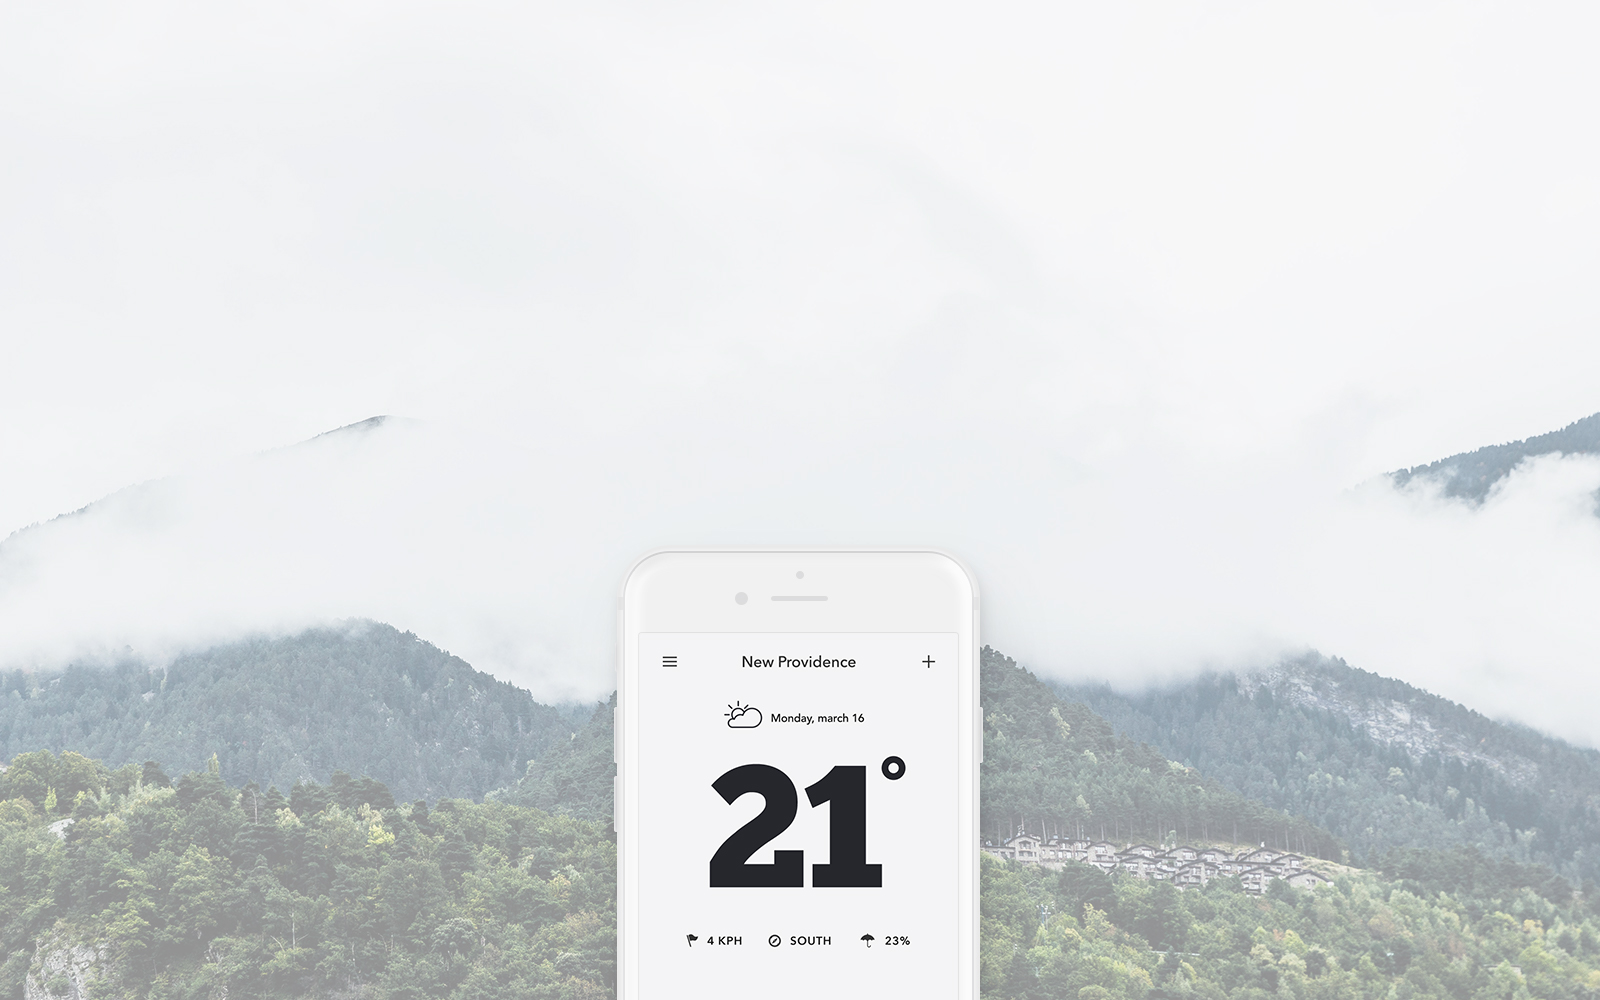
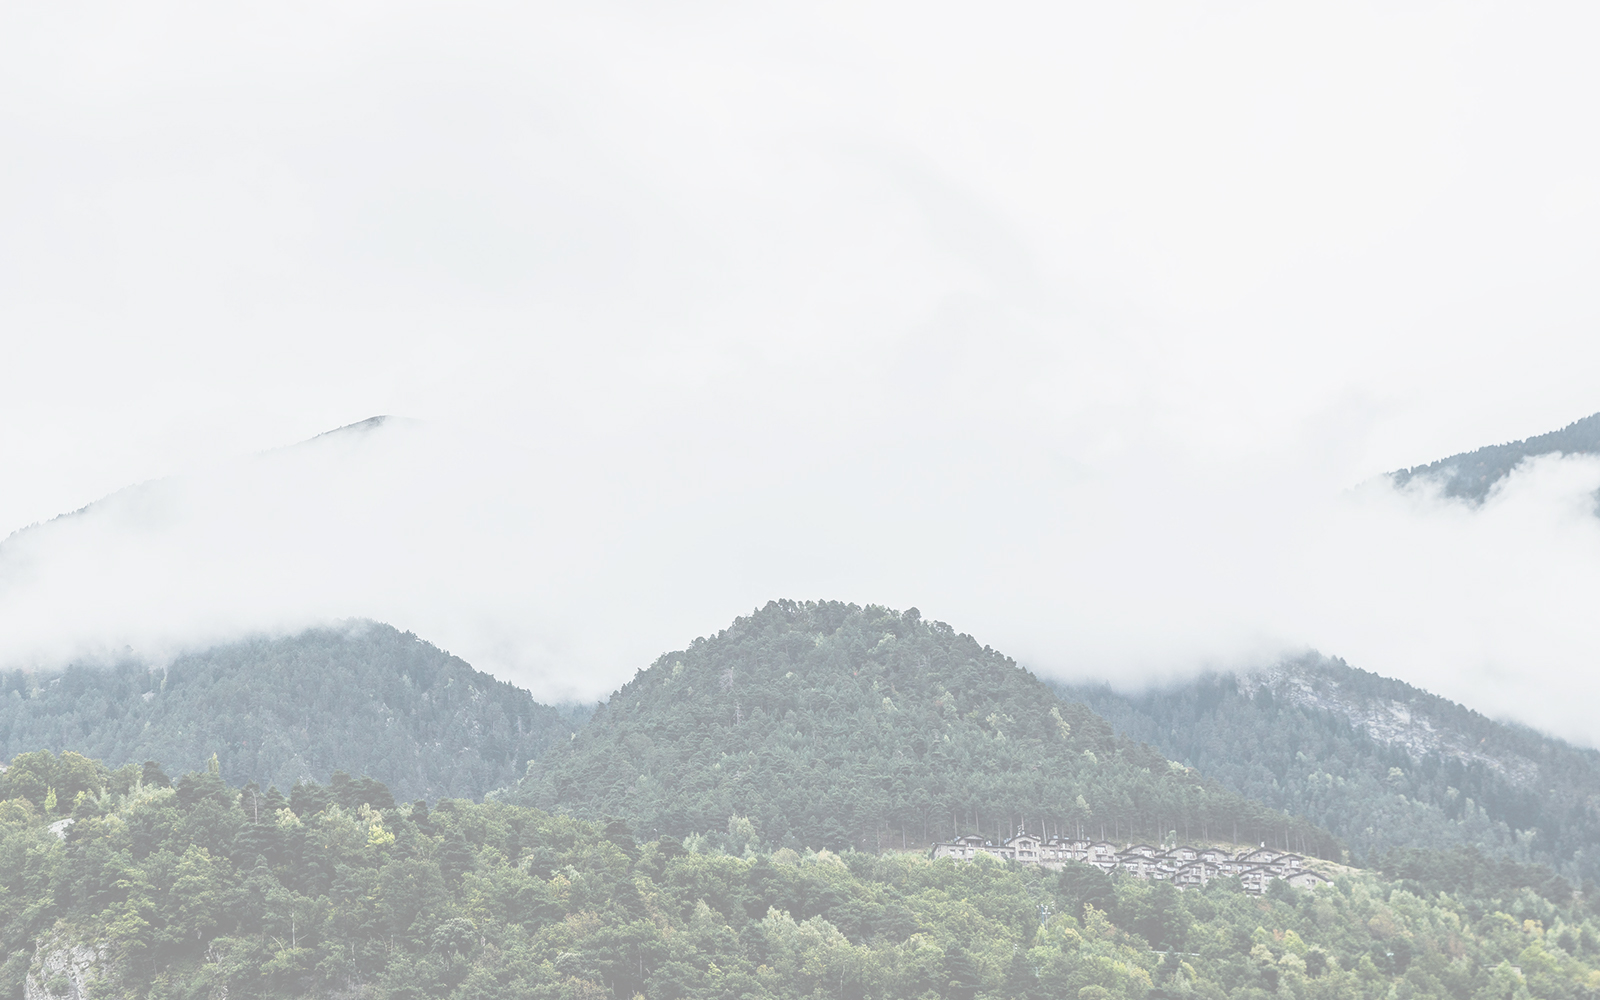
changes in header

Changed region(s): [[0.375, 0.589, 0.625, 1.0]]

diff --git a/index.html b/index.html
@@ -19,7 +19,7 @@
 <body>
 
      
-    <header>
+    <header class="parallax-window" data-parallax="scroll" data-image-src="./img/header/header-bg.jpg">
         <div class="container">
             <div class="hamburger-menu">
                 <input id="menu__toggle" type="checkbox" />
@@ -70,8 +70,10 @@
                     </svg>
                     Watch Video
                 </a>  
+                <img class="header-phone" src="img/header/iphone.png" alt="">
             </div>
         </div>
+        
     </header>
 
     <main>
@@ -353,8 +355,10 @@
     <script src="./js/customers/slider/script.js"></script>
    <script type="text/javascript" src="./js/main-pyly.js"></script>
     <script src="https://code.jquery.com/jquery-3.5.1.min.js"></script>
+    <script src="./js/parallax.min.js"></script>
     <script src="./js/slick.min.js"></script>
     <script src="./js/kosar.js"></script>
+    
   </body>
 </html>
 
